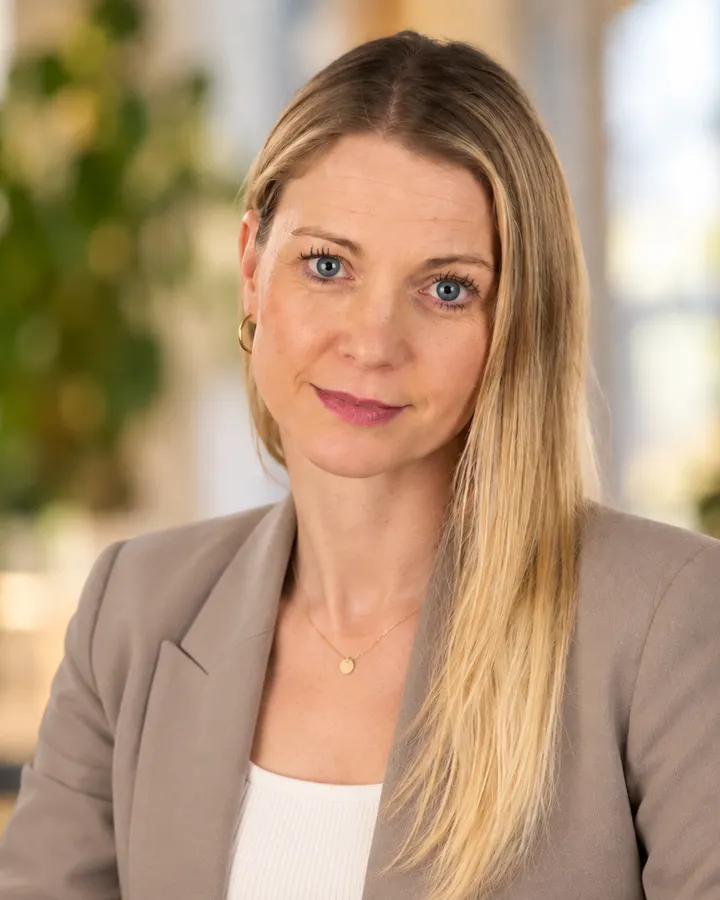
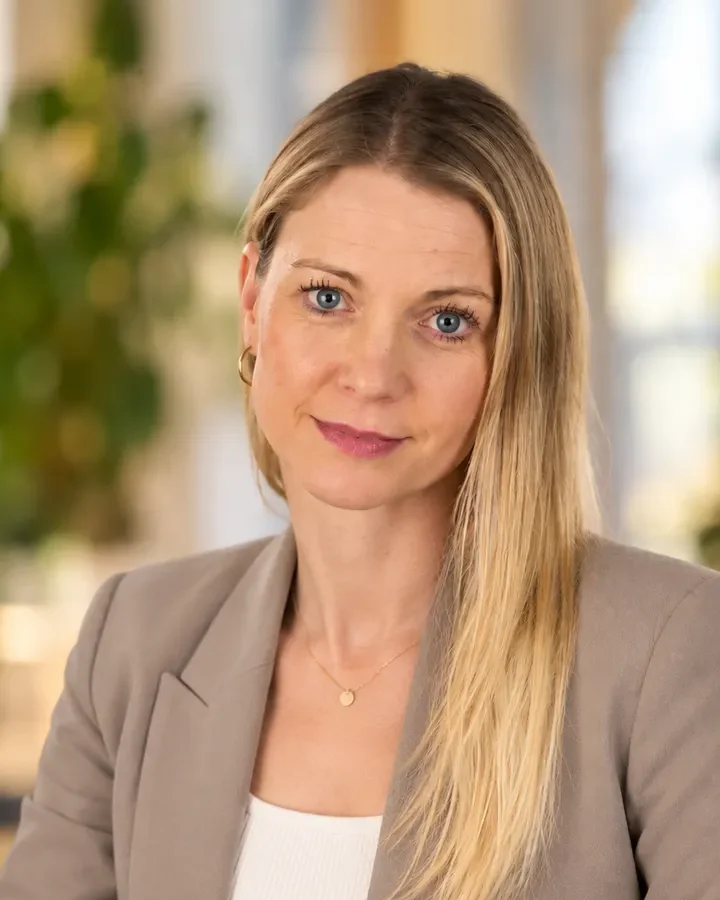
Teamfotos einheitlich ausgerichtet
Patrick, Susann und Thorsten: Augen auf gleicher Höhe und gleiche
Gesichtsgrösse (Thorsten leicht vergrössert, oben je etwas Hintergrund
ergänzt). Profilfotos auf dem Handy quadratisch statt 4:3, damit auch
über den Haaren Platz bleibt. Kleine Rundbilder neu zugeschnitten.

Claude-Session: https://claude.ai/code/session_01PvMyphMGQ3MWEvhpDP2Mrw

diff --git a/src/assets/css/main.css b/src/assets/css/main.css
@@ -2966,12 +2966,12 @@ textarea.input {
   }
 
   .profile__photo {
-    aspect-ratio: 4 / 3;
+    aspect-ratio: 1 / 1;
     max-width: none;
   }
 
   .profile__photo .team-photo {
-    object-position: 50% 15%;
+    object-position: 50% 0%;
   }
 
   .profile h3 {
